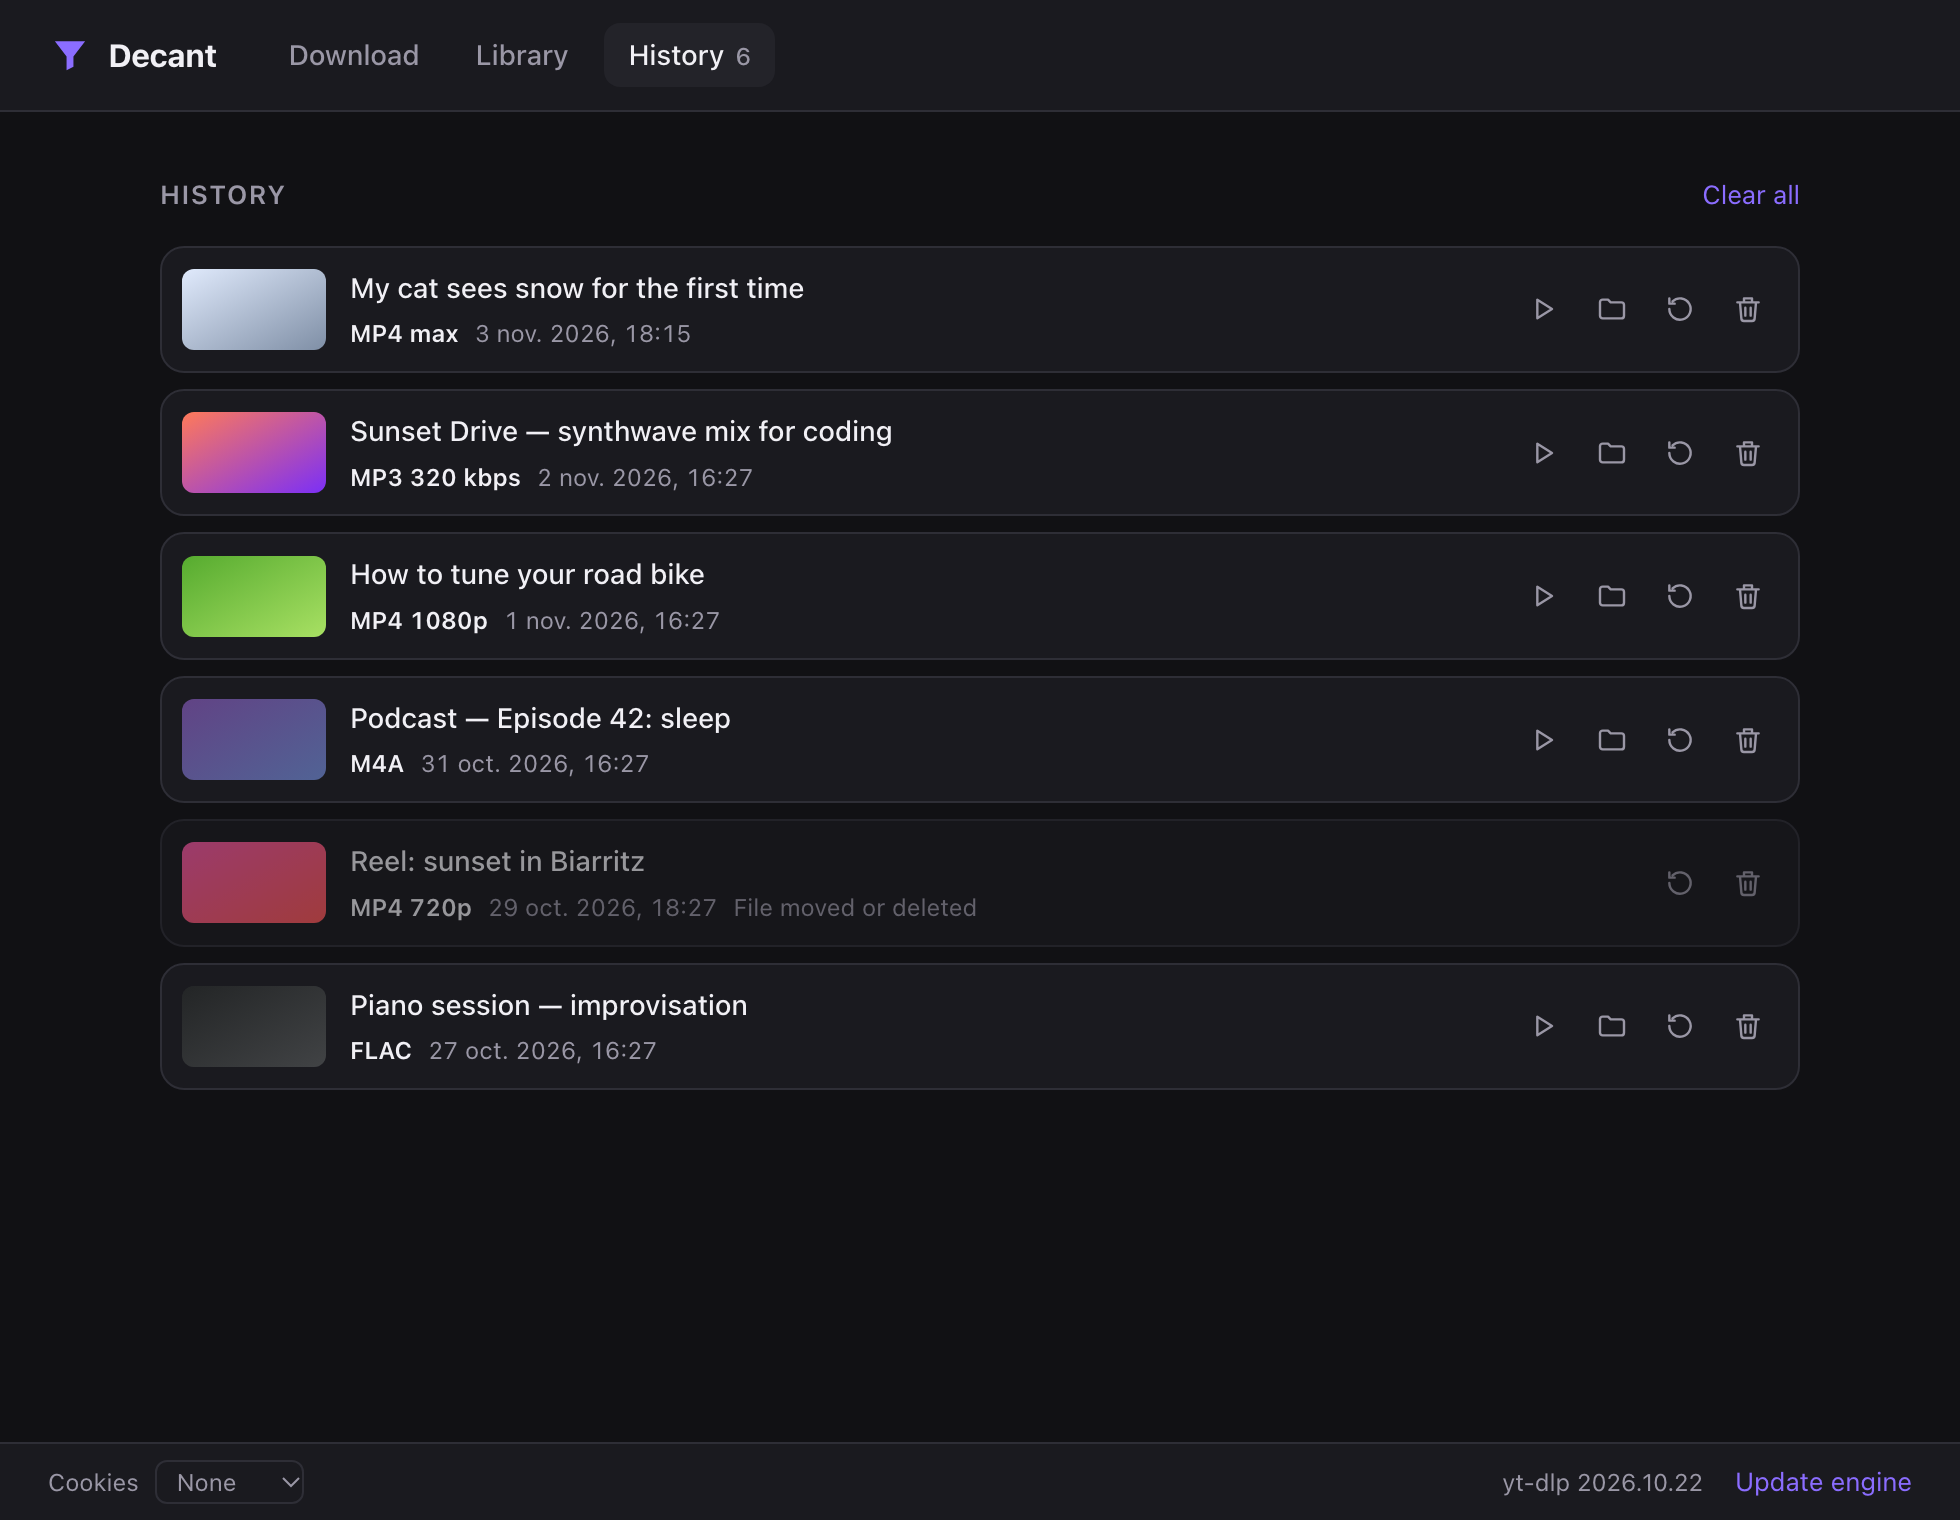
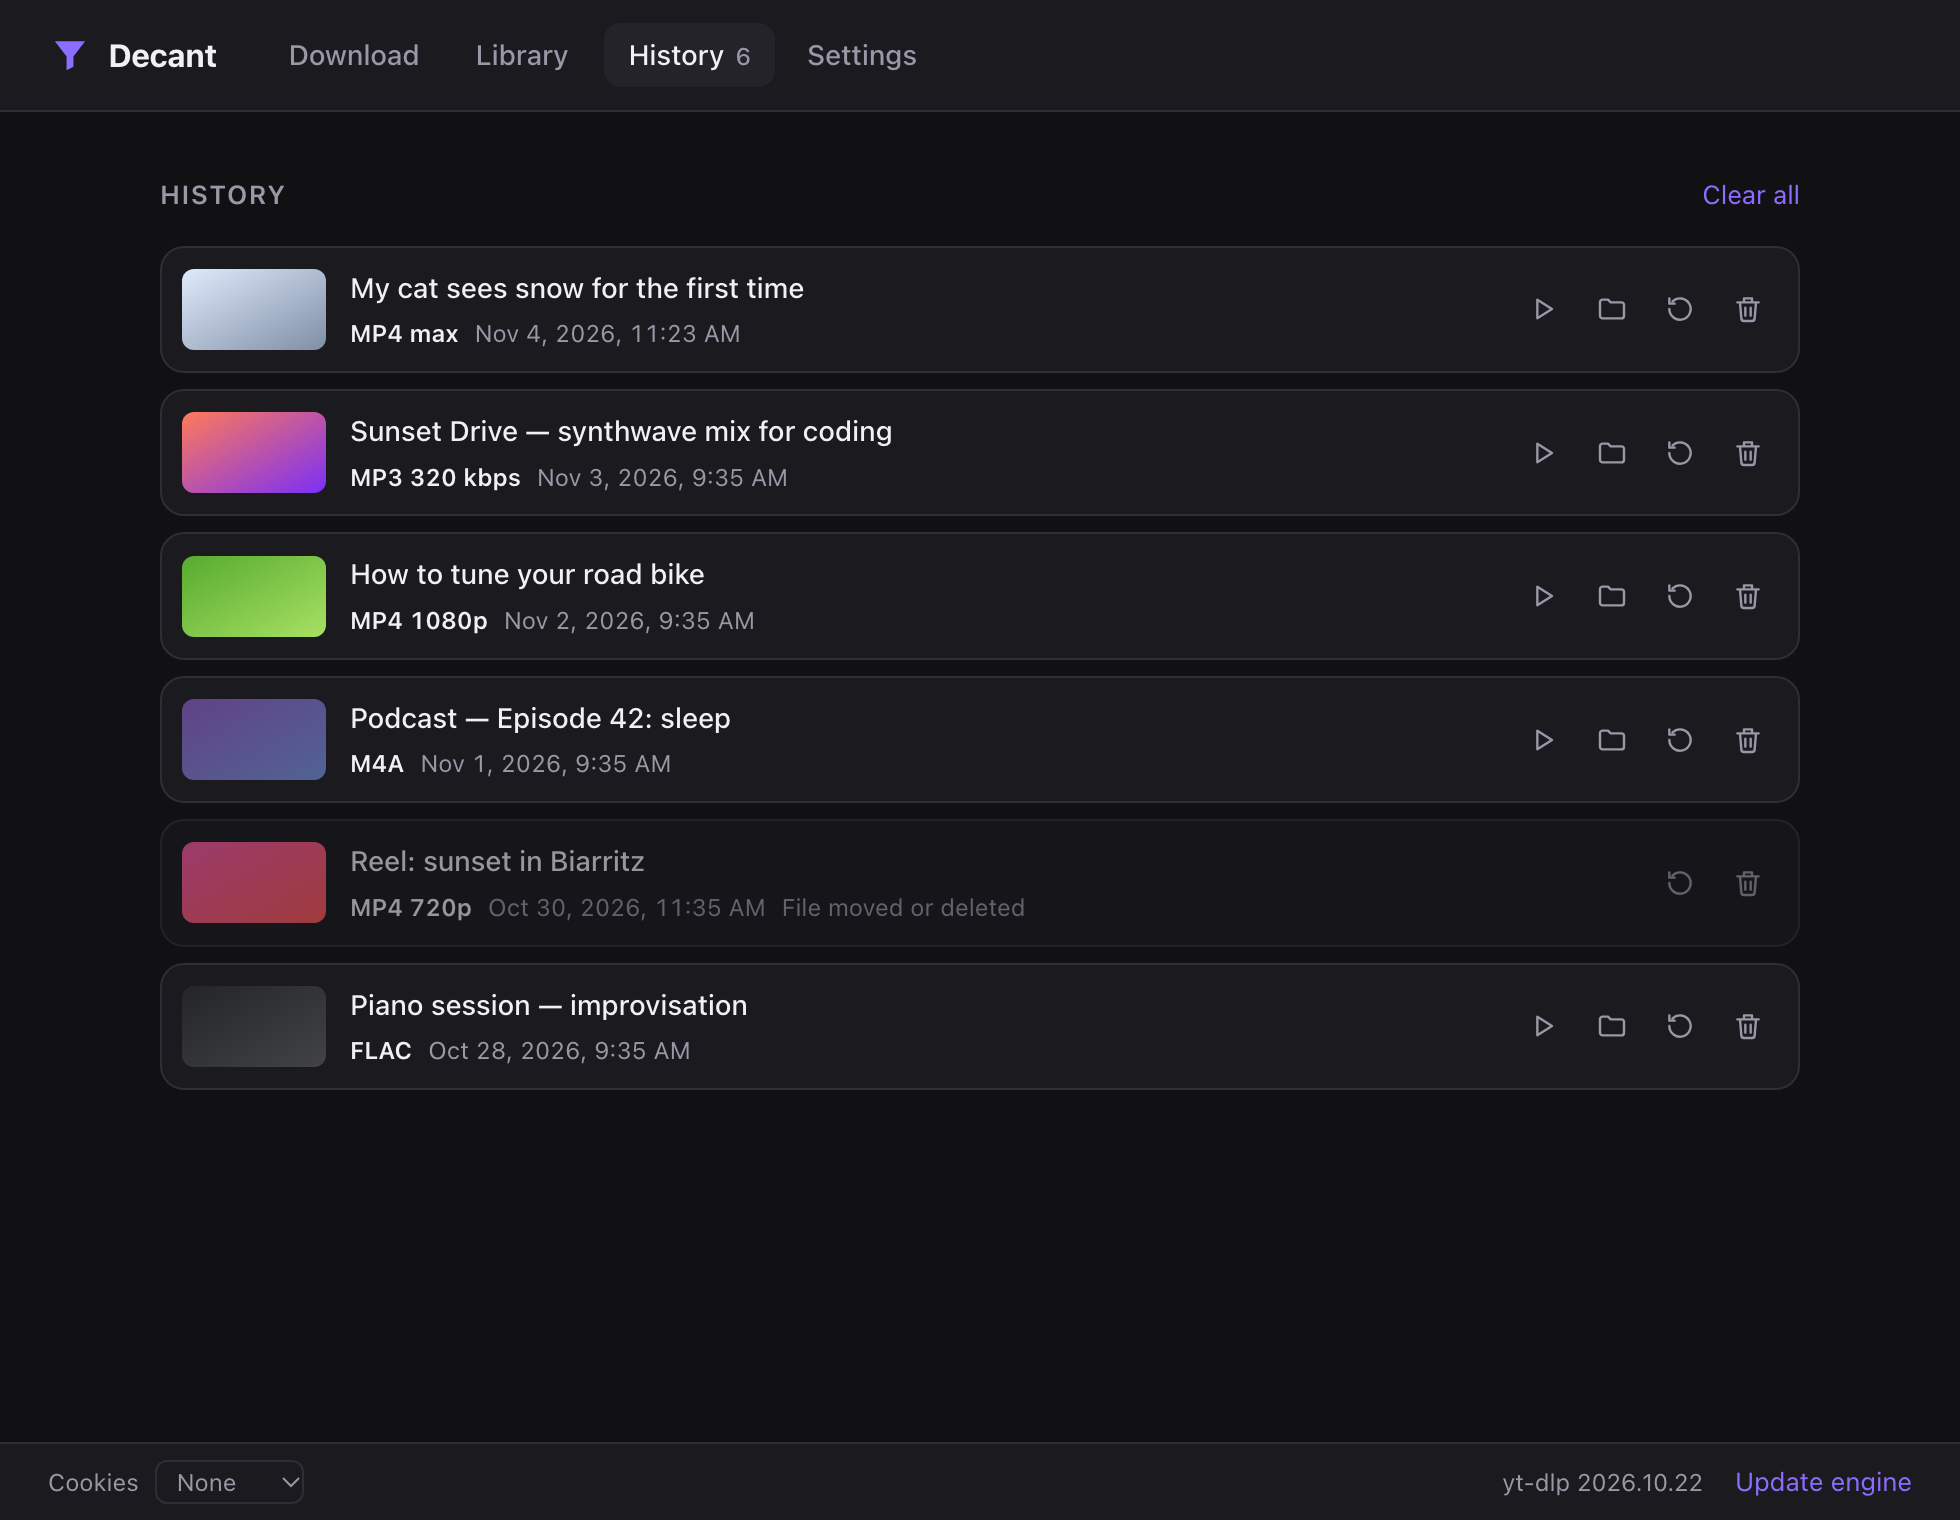
README screenshots: show the Settings tab, always in English

diff --git a/docs/demo/index.html b/docs/demo/index.html
@@ -14,9 +14,10 @@
         <span>Decant</span>
       </div>
       <nav class="tabs" role="tablist">
-        <button role="tab" data-tab="download" aria-selected="true">Download</button>
-        <button role="tab" data-tab="library" aria-selected="false">Library <span id="library-count" class="count"></span></button>
-        <button role="tab" data-tab="history" aria-selected="false">History <span id="history-count" class="count"></span></button>
+        <button role="tab" data-tab="download" aria-selected="true"><span data-i18n="Download">Download</span></button>
+        <button role="tab" data-tab="library" aria-selected="false"><span data-i18n="Library">Library</span> <span id="library-count" class="count"></span></button>
+        <button role="tab" data-tab="history" aria-selected="false"><span data-i18n="History">History</span> <span id="history-count" class="count"></span></button>
+        <button role="tab" data-tab="settings" aria-selected="false"><span data-i18n="Settings">Settings</span></button>
       </nav>
     </header>
 
@@ -31,9 +32,11 @@
             type="text"
             spellcheck="false"
             placeholder="Paste a YouTube, Instagram, TikTok… link, or type to search"
+            data-i18n-placeholder="Paste a YouTube, Instagram, TikTok… link, or type to search"
             aria-label="Link or search"
+            data-i18n-aria-label="Link or search"
           />
-          <button type="submit" class="btn primary" id="analyze-btn">Go</button>
+          <button type="submit" class="btn primary" id="analyze-btn" data-i18n="Go">Go</button>
         </form>
 
         <div id="notice" class="notice" hidden></div>
@@ -41,26 +44,36 @@
 
         <div class="destination">
           <svg viewBox="0 0 24 24" aria-hidden="true"><path d="M3 7a2 2 0 0 1 2-2h4l2 2h8a2 2 0 0 1 2 2v8a2 2 0 0 1-2 2H5a2 2 0 0 1-2-2z" /></svg>
-          <span>Saving to</span>
-          <button id="dest-path" class="path" title="Open the folder"></button>
-          <button id="dest-change" class="btn small">Change</button>
+          <span data-i18n="Saving to">Saving to</span>
+          <button id="dest-path" class="path"></button>
+          <button id="dest-change" class="btn small" data-i18n="Change">Change</button>
         </div>
 
         <section class="queue">
           <div class="section-head">
-            <h2>Queue</h2>
-            <button id="queue-clear" class="link" hidden>Clear finished</button>
+            <h2 data-i18n="Queue">Queue</h2>
+            <button id="queue-clear" class="link" data-i18n="Clear finished" hidden>Clear finished</button>
           </div>
           <ul id="queue-list" class="rows"></ul>
-          <p id="queue-empty" class="empty">Nothing here yet. Paste a link to get started.</p>
+          <p id="queue-empty" class="empty" data-i18n="Nothing here yet. Paste a link to get started.">Nothing here yet. Paste a link to get started.</p>
         </section>
       </section>
 
       <section id="tab-library" class="tab wide" hidden>
         <div class="library-head">
           <div id="library-filter" class="segmented"></div>
-          <input id="library-search" type="search" spellcheck="false" placeholder="Search your library" aria-label="Search your library" />
+          <input
+            id="library-search"
+            type="search"
+            spellcheck="false"
+            placeholder="Search your library"
+            data-i18n-placeholder="Search your library"
+            aria-label="Search your library"
+            data-i18n-aria-label="Search your library"
+          />
+          <button id="library-select" class="btn small" data-i18n="Select">Select</button>
         </div>
+        <div id="library-selection" class="selection-bar" hidden></div>
         <ul id="library-grid" class="grid"></ul>
         <div id="library-playlist" class="playlist-view" hidden></div>
         <p id="library-empty" class="empty">Your library is empty. Choose “Save to library” on a video to watch it here, even offline.</p>
@@ -71,21 +84,27 @@
 
       <section id="tab-history" class="tab" hidden>
         <div class="section-head">
-          <h2>History</h2>
-          <button id="history-clear" class="link">Clear all</button>
+          <h2 data-i18n="History">History</h2>
+          <button id="history-clear" class="link" data-i18n="Clear all">Clear all</button>
         </div>
         <ul id="history-list" class="rows"></ul>
-        <p id="history-empty" class="empty">No downloads yet.</p>
+        <p id="history-empty" class="empty" data-i18n="No downloads yet.">No downloads yet.</p>
       </section>
+
+      <section id="tab-settings" class="tab" hidden></section>
     </main>
 
     <div id="mini-player" class="mini" hidden></div>
 
     <footer class="statusbar">
-      <label class="cookies" title="For Instagram, private or age-restricted videos: Decant uses your session from this browser.">
-        Cookies
+      <label
+        class="cookies"
+        title="For Instagram, private or age-restricted videos: Decant uses your session from this browser."
+        data-i18n-title="For Instagram, private or age-restricted videos: Decant uses your session from this browser."
+      >
+        <span data-i18n="Cookies">Cookies</span>
         <select id="cookies-select">
-          <option value="">None</option>
+          <option value="" data-i18n="None">None</option>
           <option value="chrome">Chrome</option>
           <option value="firefox">Firefox</option>
           <option value="safari" data-platform="darwin">Safari</option>
@@ -97,9 +116,10 @@
       </label>
       <span class="spacer"></span>
       <span id="engine-version" class="muted"></span>
-      <button id="engine-update" class="link">Update engine</button>
+      <button id="engine-update" class="link" data-i18n="Update engine">Update engine</button>
     </footer>
 
+    <script src="../../src/renderer/i18n.js"></script>
     <script src="mock.js"></script>
     <script src="../../src/renderer/app.js"></script>
   </body>

diff --git a/docs/demo/mock.js b/docs/demo/mock.js
@@ -137,6 +137,7 @@
     settings: {
       get: async () => ({
         outputDir: '/Users/you/Downloads',
+        language: 'en',
         defaultKind: scene === 'video' ? 'video' : 'audio',
         defaultAudioFormat: 'mp3',
         defaultAudioQuality: '320',
